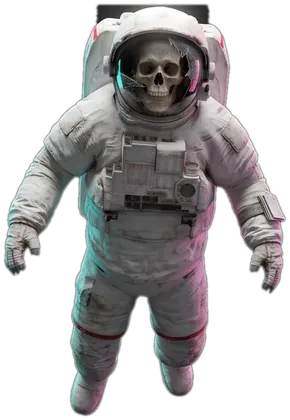
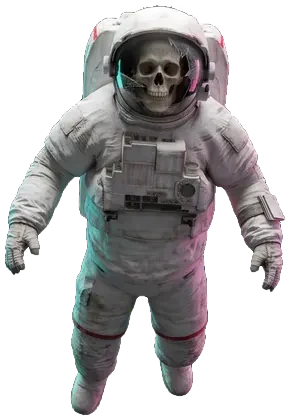
Space scene: remove the dark block above the robot's and the astronaut's head
A rectangle of the old backdrop was left in both masks and read as square
ears on the dark sky. Rebuilt with scripts/design/space_item_masks.py.

diff --git a/sw.js b/sw.js
@@ -1,5 +1,5 @@
 /* GameAccountValue Service Worker — offline + PWA install */
-const CACHE = 'gav-landing-2026-31';
+const CACHE = 'gav-landing-2026-32';
 // Only the shell: other languages' homepages are NOT precached any more — on a
 // phone that was ~1.5 MB of background download competing with the page.
 const PRECACHE = [

diff --git a/scripts/design/space_item_masks.py b/scripts/design/space_item_masks.py
@@ -15,9 +15,11 @@ SRC, OUT = sys.argv[1], sys.argv[2]
 os.makedirs(OUT, exist_ok=True)
 
 # T: pixels darker than this, connected to the outside, are background. Lower for objects that are dark themselves.
-DARK = {"phone-4": 14, "phone-5": 14, "phone-6": 14, "g-fortnite-5": 14, "g-free-fire-2": 16, "g-minecraft-4": 16, "item-lootcrate": 18,
+DARK = {"robot": 26, "astronaut": 22,
+        "phone-4": 14, "phone-5": 14, "phone-6": 14, "g-fortnite-5": 14, "g-free-fire-2": 16, "g-minecraft-4": 16, "item-lootcrate": 18,
         "item-headset": 15, "item-backpack": 18, "g-free-fire-5": 18, "g-fortnite-2": 18, "g-clash-of-clans-2": 20, "item-gamepad": 20,
         "g-mobile-legends-5": 20, "phone-1": 20, "g-mobile-legends-2": 26, "phone-2": 20, "item-helmet": 22, "g-free-fire-1": 20, "item-airdrop": 20}
+TOP = {"robot": (90, 70), "astronaut": (112, 26)}
 ENCLOSED = {"item-headset"}
 ROUGH = {"item-helmet": 30, "g-free-fire-5": 30}   # restore only smooth areas here: the rest under the old mask is noise          # also remove big black areas fully surrounded by the object
 RESTORE = {"item-backpack", "g-minecraft-4", "phone-4", "g-mobile-legends-5"}
@@ -57,6 +59,9 @@ def fix(path):
 
     # 2. black leftovers: dark pixels connected to the outside (or big enclosed ones where asked)
     dark = lum < T
+    if name in TOP:                                            # a leftover block of the old backdrop above the head
+        t2, rows = TOP[name]
+        dark[:rows] |= lum[:rows] < t2
     outside = ~core
     lab, n = ndi.label(dark | outside)
     ids = np.unique(lab[outside])
@@ -100,6 +105,8 @@ def fix(path):
 
 
 files = sorted(glob.glob(SRC + "/item-*.webp") + glob.glob(SRC + "/phone-*.webp") + glob.glob(SRC + "/g-*.webp"))
+BIG = ["robot", "astronaut"]               # the two figures had a dark block of the old backdrop above the head
+files += [os.path.join(SRC, n + ".webp") for n in BIG]
 only = sys.argv[3:]
 # these six look right on the dark sky as they are (their soft parts are the object itself); rebuilding made them worse
 SKIP = {"item-helmet", "item-backpack", "g-free-fire-2", "g-free-fire-5", "g-minecraft-4", "phone-4"}
